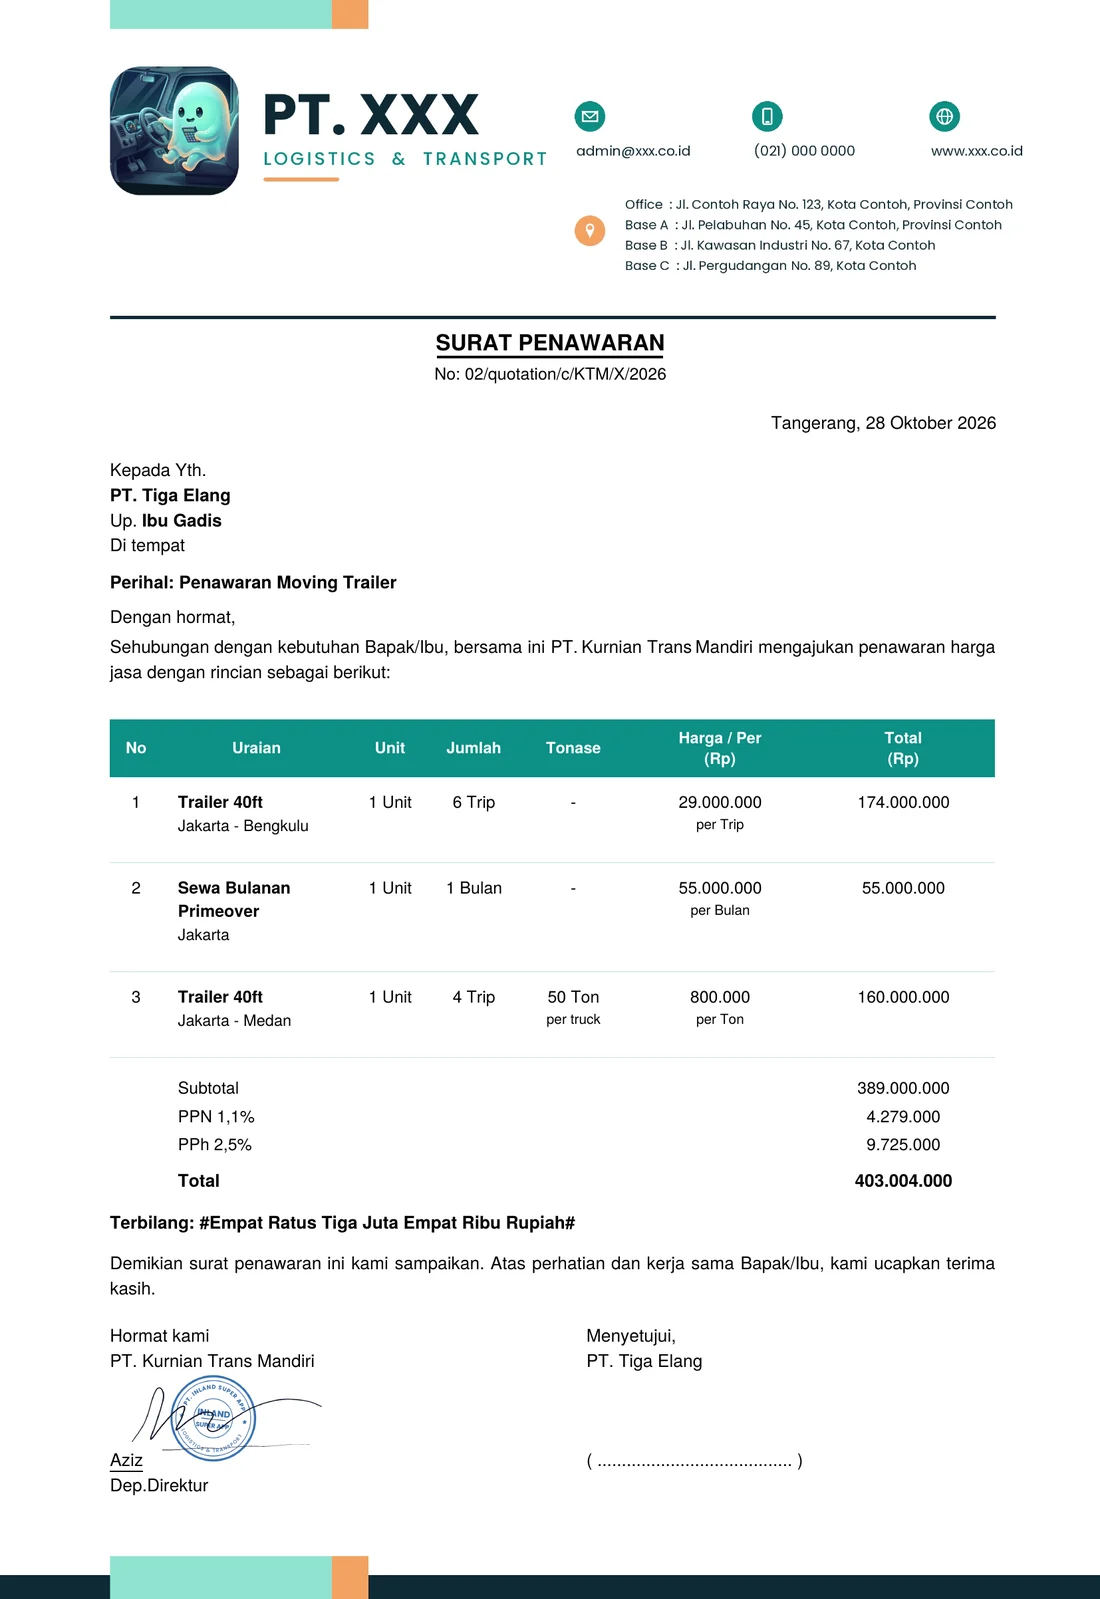
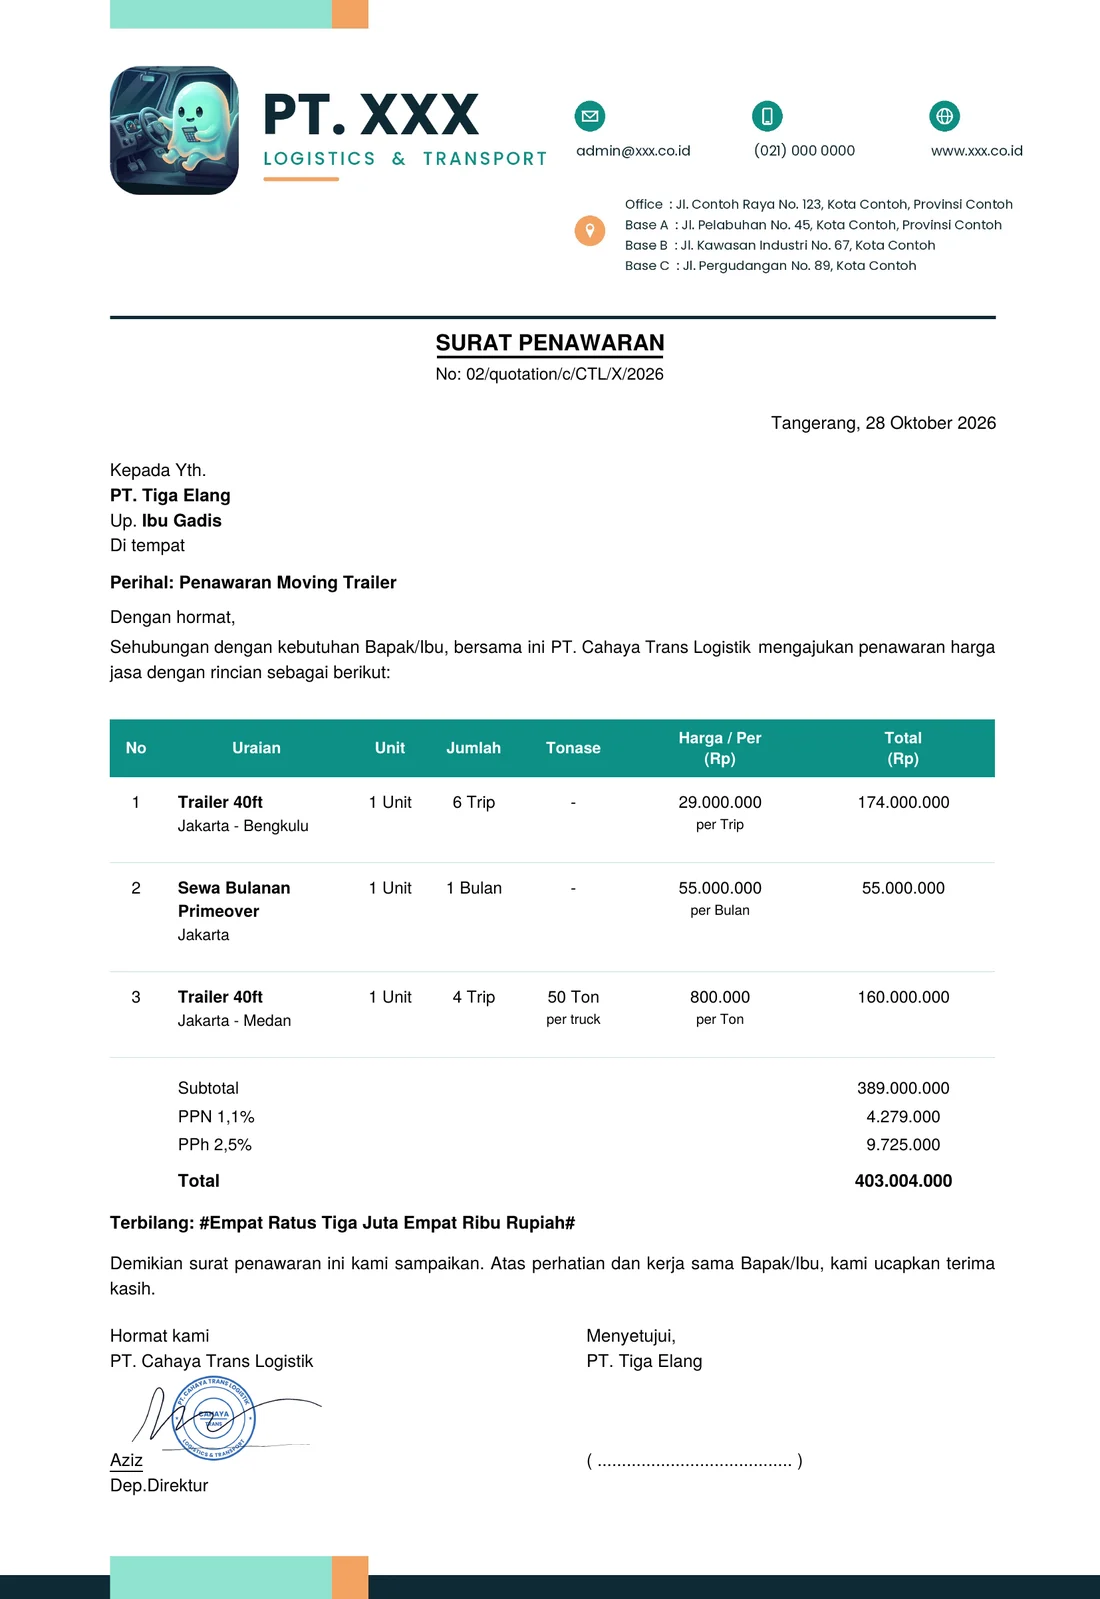
Contoh surat penawaran: nama perusahaan dan cap fiktif
Claude-Session: https://claude.ai/code/session_013ntjnBoovXgUwfU7gZqrMt

Changed region(s): [[0.1236, 0.8274, 0.2782, 0.9193], [0.4018, 0.2145, 0.6182, 0.2452], [0.5255, 0.3984, 0.68, 0.429]]

diff --git a/index.html b/index.html
@@ -351,7 +351,7 @@ footer .brand img{width:28px;height:28px;border-radius:8px}
     <div class="wrap">
       <div class="sh rv"><h2>Dari hitung harga sampai <b>surat penawaran</b></h2><p>Dibuat untuk bos dan admin ekspedisi yang ingin penawaran cepat, rapi, dan tidak salah hitung.</p></div>
       <div class="paper rv">
-        <div class="sheet"><img src="quote.webp" width="1100" height="1599" alt="Contoh surat penawaran dari Ghostrip dengan harga per trip, per bulan, dan tonase, lengkap dengan pajak, terbilang, TTD, dan cap" loading="lazy"><i class="mk" style="--y:10%">1</i><i class="mk" style="--y:50%">2</i><i class="mk" style="--y:56%">3</i><i class="mk" style="--y:62.5%">4</i><i class="mk" style="--y:71%">5</i><i class="mk" style="--y:88%">6</i></div>
+        <div class="sheet"><img src="quote.webp?v=2" width="1100" height="1599" alt="Contoh surat penawaran dari Ghostrip dengan harga per trip, per bulan, dan tonase, lengkap dengan pajak, terbilang, TTD, dan cap" loading="lazy"><i class="mk" style="--y:10%">1</i><i class="mk" style="--y:50%">2</i><i class="mk" style="--y:56%">3</i><i class="mk" style="--y:62.5%">4</i><i class="mk" style="--y:71%">5</i><i class="mk" style="--y:88%">6</i></div>
           <div class="pc r" style="--y:10%;--cd:0.15s"><i class="no">1</i><span class="ic m"><svg width="16" height="16" viewBox="0 0 24 24" fill="none" stroke="currentColor" stroke-width="2.2" stroke-linecap="round" stroke-linejoin="round" aria-hidden="true"><rect x="3" y="4" width="18" height="16" rx="2"/><path d="M7 9h6M7 13h10M7 16h7"/></svg></span><div><b>Kop surat sendiri</b><span>Logo, alamat & kontak</span></div></div>
           <div class="pc r" style="--y:50%;--cd:0.27s"><i class="no">2</i><span class="ic m"><svg width="16" height="16" viewBox="0 0 24 24" fill="none" stroke="currentColor" stroke-width="2.2" stroke-linecap="round" stroke-linejoin="round" aria-hidden="true"><path d="M3 7h11v9H3zM14 10h4l3 3v3h-7z"/><circle cx="7.5" cy="17.5" r="1.8"/><circle cx="17.5" cy="17.5" r="1.8"/></svg></span><div><b>Per trip</b><span>unit × trip × harga</span></div></div>
           <div class="pc l" style="--y:56%;--cd:0.39s"><i class="no">3</i><span class="ic o"><svg width="16" height="16" viewBox="0 0 24 24" fill="none" stroke="currentColor" stroke-width="2.2" stroke-linecap="round" stroke-linejoin="round" aria-hidden="true"><rect x="3" y="5" width="18" height="16" rx="2"/><path d="M16 3v4M8 3v4M3 10h18"/></svg></span><div><b>Bulan, hari, atau 1 paket</b><span>Satuan bisa dipilih</span></div></div>
